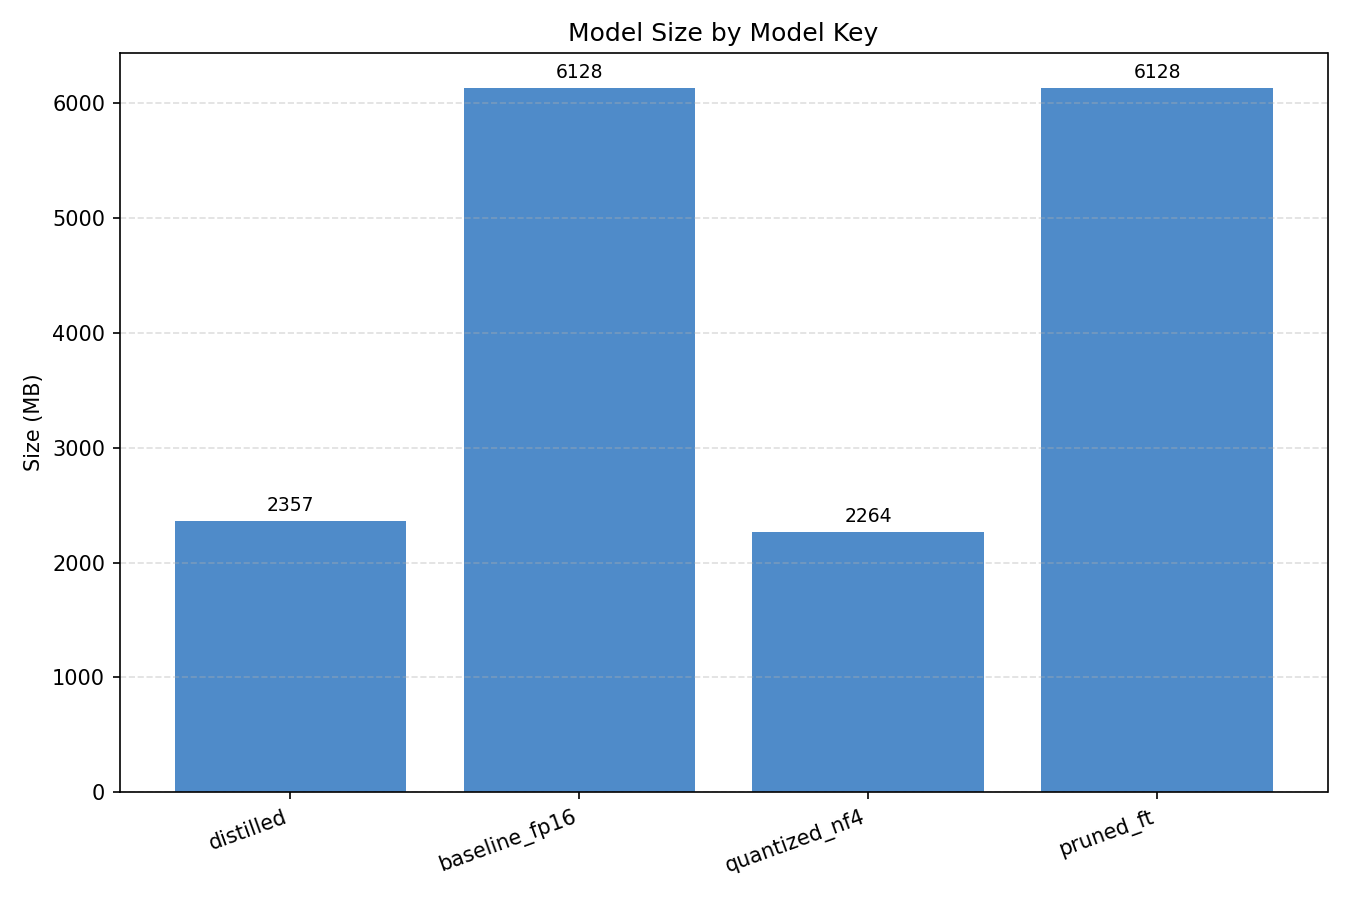
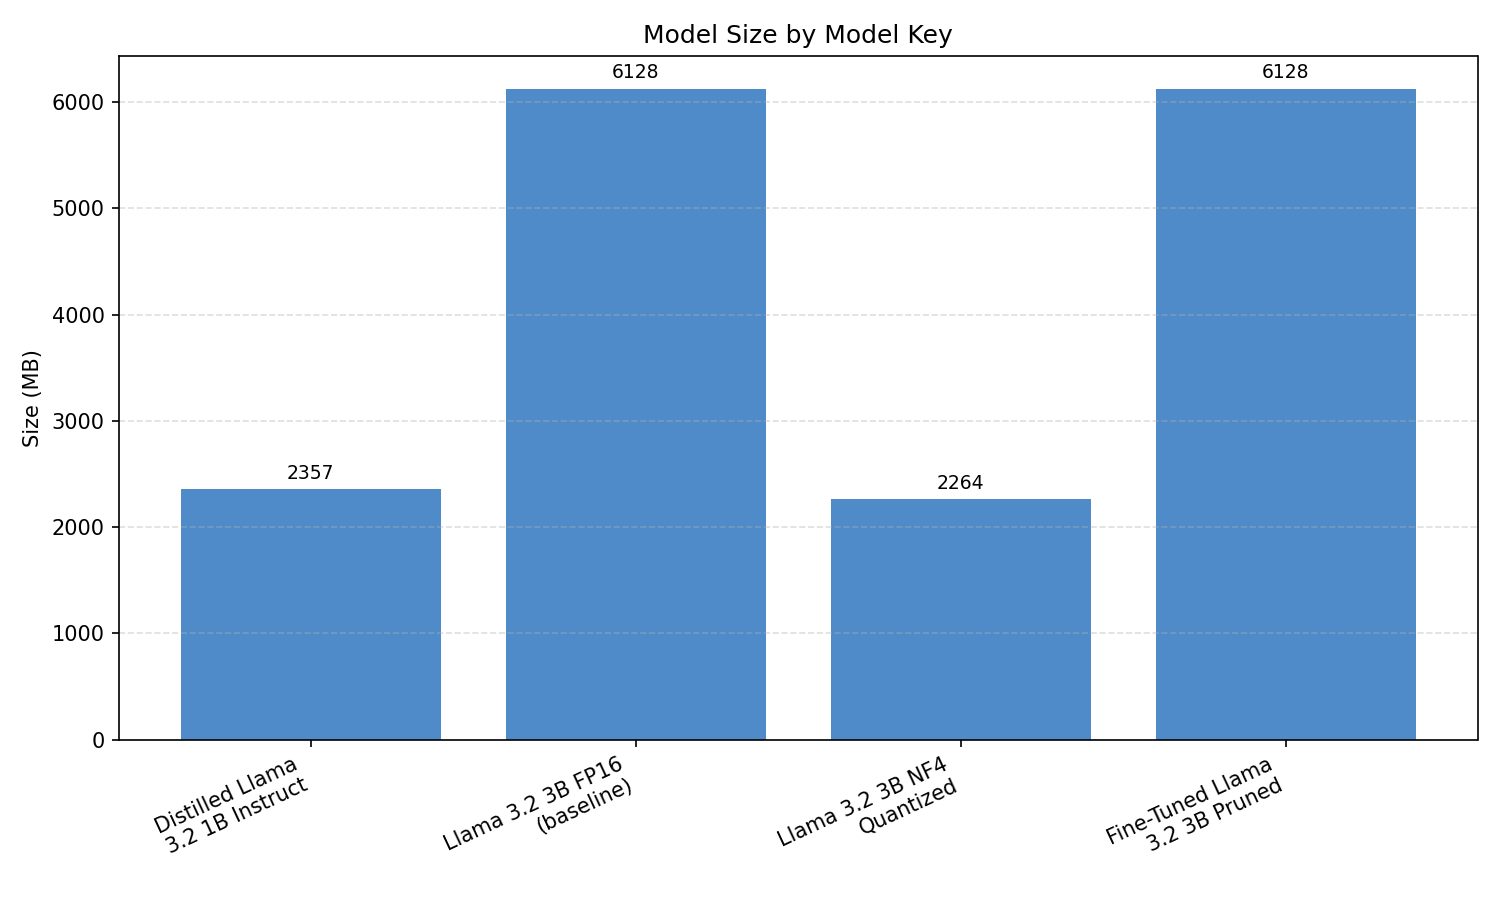
Add table

diff --git a/generate_docstring_visuals.py b/generate_docstring_visuals.py
@@ -5,9 +5,10 @@ from __future__ import annotations
 import csv
 from pathlib import Path
 from statistics import mean
-from typing import Dict, List, Tuple
+from typing import Dict, List, Optional
 
 import matplotlib.pyplot as plt
+import textwrap
 
 DATA_PATH = Path("docstring_metrics_runs.csv")
 FIGURES_DIR = Path("figures")
@@ -49,17 +50,20 @@ def bar_chart(
     ylabel: str,
     filepath: Path,
     value_format: str,
+    display_labels: Optional[List[str]] = None,
 ) -> None:
-    fig, ax = plt.subplots(figsize=(9, 6))
+    fig, ax = plt.subplots(figsize=(10, 6))
     positions = range(len(keys))
     bars = ax.bar(positions, values, color="#4f8bc9")
     ax.set_xticks(list(positions))
-    ax.set_xticklabels(keys, rotation=20, ha="right")
+    labels = display_labels if display_labels is not None else keys
+    wrapped_labels = [textwrap.fill(label, width=18) for label in labels]
+    ax.set_xticklabels(wrapped_labels, rotation=25, ha="right")
     ax.set_title(title)
     ax.set_ylabel(ylabel)
     ax.grid(axis="y", linestyle="--", alpha=0.4)
-    labels = [value_format.format(value) for value in values]
-    ax.bar_label(bars, labels=labels, padding=3, fontsize=9)
+    value_labels = [value_format.format(value) for value in values]
+    ax.bar_label(bars, labels=value_labels, padding=3, fontsize=9)
     fig.tight_layout()
     fig.savefig(filepath, dpi=150)
     plt.close(fig)
@@ -77,20 +81,66 @@ def scatter_model_size_vs_emissions(
         sizes.append(data["size_mb"])
         emissions.append(data["avg_emissions"])
         labels.append(data["label"])
-    scatter = ax.scatter(sizes, emissions, s=160, color="#d95f02")
+    ax.scatter(sizes, emissions, s=160, color="#d95f02")
+    ax.margins(x=0.15, y=0.25)
     ax.set_title("Average Emissions vs Model Size")
     ax.set_xlabel("Model Size (MB)")
     ax.set_ylabel("Average Emissions (kg CO₂eq)")
     ax.grid(True, linestyle="--", alpha=0.4)
     for x, y, label in zip(sizes, emissions, labels):
+        wrapped = textwrap.fill(label, width=24)
         ax.annotate(
-            label,
+            wrapped,
             (x, y),
             textcoords="offset points",
             xytext=(0, 10),
             ha="center",
             fontsize=9,
+            bbox=dict(boxstyle="round,pad=0.25", facecolor="#ffffff", edgecolor="#cccccc"),
         )
+    fig.tight_layout()
+    fig.savefig(filepath, dpi=150)
+    plt.close(fig)
+
+
+def summary_table_png(
+    summary: Dict[str, Dict[str, float]],
+    ordered_keys: List[str],
+    filepath: Path,
+) -> None:
+    headers = ["Model", "Avg CO2 (kg)", "Avg Latency (s)", "Model Size (MB)", "Pass Rate"]
+    rows = []
+    for key in ordered_keys:
+        data = summary[key]
+        rows.append(
+            [
+                textwrap.fill(data["label"], width=32),
+                f"{data['avg_emissions']:.2e}",
+                f"{data['avg_inference']:.2f}",
+                f"{data['size_mb']:.0f}",
+                f"{data['pass_rate']:.0%}",
+            ]
+        )
+
+    fig_height = 1.2 + 0.6 * len(rows)
+    fig, ax = plt.subplots(figsize=(12, fig_height))
+    ax.axis("off")
+    table = ax.table(
+        cellText=rows,
+        colLabels=headers,
+        loc="center",
+        cellLoc="center",
+        colWidths=[0.5, 0.14, 0.16, 0.16, 0.14],
+    )
+    table.auto_set_font_size(False)
+    table.set_fontsize(10)
+    table.scale(1, 1.4)
+    for (row_idx, col_idx), cell in table.get_celld().items():
+        if row_idx == 0:
+            cell.set_fontsize(11)
+            cell.set_text_props(weight="bold")
+        if col_idx == 0:
+            cell.set_text_props(ha="left")
     fig.tight_layout()
     fig.savefig(filepath, dpi=150)
     plt.close(fig)
@@ -103,6 +153,7 @@ def main() -> None:
     ordered_keys = sorted(summary.keys(), key=lambda k: summary[k]["avg_emissions"])
 
     emissions = [summary[k]["avg_emissions"] for k in ordered_keys]
+    display_labels = [summary[k]["label"] for k in ordered_keys]
     bar_chart(
         ordered_keys,
         emissions,
@@ -110,6 +161,7 @@ def main() -> None:
         ylabel="Emissions (kg CO₂eq)",
         filepath=FIGURES_DIR / "emissions_by_model_key.png",
         value_format="{:.2e}",
+        display_labels=display_labels,
     )
 
     inference = [summary[k]["avg_inference"] for k in ordered_keys]
@@ -120,6 +172,7 @@ def main() -> None:
         ylabel="Time (seconds)",
         filepath=FIGURES_DIR / "inference_time_by_model.png",
         value_format="{:.2f}",
+        display_labels=display_labels,
     )
 
     sizes = [summary[k]["size_mb"] for k in ordered_keys]
@@ -130,6 +183,7 @@ def main() -> None:
         ylabel="Size (MB)",
         filepath=FIGURES_DIR / "model_size_by_model.png",
         value_format="{:.0f}",
+        display_labels=display_labels,
     )
 
     accuracy = [summary[k]["pass_rate"] for k in ordered_keys]
@@ -140,9 +194,11 @@ def main() -> None:
         ylabel="Pass Rate",
         filepath=FIGURES_DIR / "accuracy_by_model.png",
         value_format="{:.0%}",
+        display_labels=display_labels,
     )
 
     scatter_model_size_vs_emissions(summary, FIGURES_DIR / "model_size_vs_emissions.png")
+    summary_table_png(summary, ordered_keys, FIGURES_DIR / "model_summary_table.png")
 
 
 if __name__ == "__main__":
